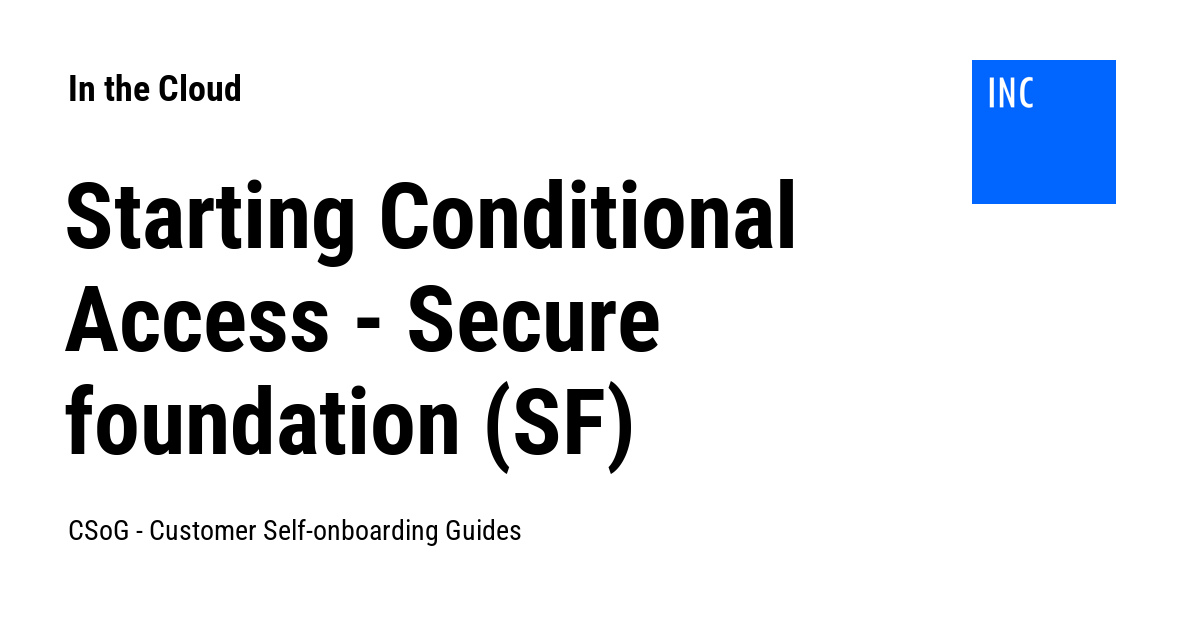
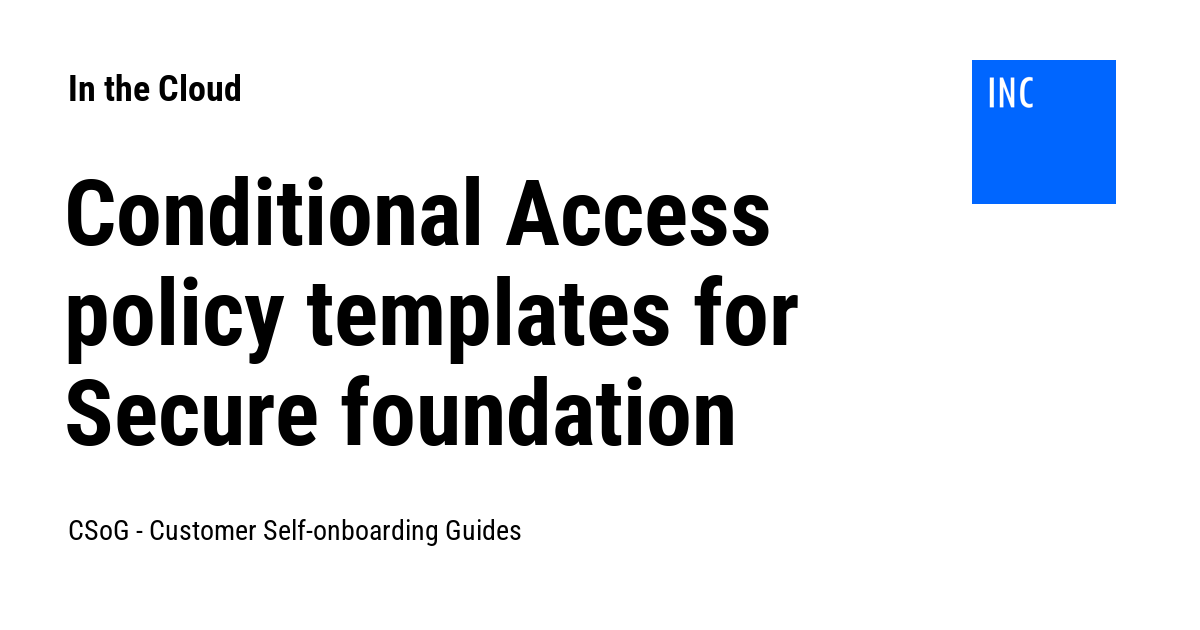
Deployed a15a251 with MkDocs version: 1.6.1

Changed region(s): [[0.0308, 0.4222, 0.6783, 0.754], [0.0308, 0.2714, 0.6783, 0.4222]]

diff --git a/entra/casf/index.html b/entra/casf/index.html
@@ -24,7 +24,7 @@
     
     
       
-        <title>Starting Conditional Access - Secure foundation (SF) - In the Cloud</title>
+        <title>Conditional Access policy templates for Secure foundation - In the Cloud</title>
       
     
     
@@ -61,7 +61,7 @@
       
         <meta  property="og:type"  content="website" >
       
-        <meta  property="og:title"  content="Starting Conditional Access - Secure foundation (SF) - In the Cloud" >
+        <meta  property="og:title"  content="Conditional Access policy templates for Secure foundation - In the Cloud" >
       
         <meta  property="og:description"  content="CSoG - Customer Self-onboarding Guides" >
       
@@ -77,7 +77,7 @@
       
         <meta  name="twitter:card"  content="summary_large_image" >
       
-        <meta  name="twitter:title"  content="Starting Conditional Access - Secure foundation (SF) - In the Cloud" >
+        <meta  name="twitter:title"  content="Conditional Access policy templates for Secure foundation - In the Cloud" >
       
         <meta  name="twitter:description"  content="CSoG - Customer Self-onboarding Guides" >
       
@@ -102,7 +102,7 @@
     <div data-md-component="skip">
       
         
-        <a href="#starting-conditional-access-secure-foundation-sf" class="md-skip">
+        <a href="#conditional-access-policy-templates-for-secure-foundation" class="md-skip">
           Skip to content
         </a>
       
@@ -135,7 +135,7 @@
         <div class="md-header__topic" data-md-component="header-topic">
           <span class="md-ellipsis">
             
-              Starting Conditional Access - Secure foundation (SF)
+              Conditional Access policy templates for Secure foundation
             
           </span>
         </div>
@@ -1167,7 +1167,7 @@
                   
 
 
-<h1 id="starting-conditional-access-secure-foundation-sf">Starting Conditional Access - Secure foundation (SF)</h1>
+<h1 id="conditional-access-policy-templates-for-secure-foundation">Conditional Access policy templates for Secure foundation</h1>
 <p>Conditional Access templates จาก <a href="https://learn.microsoft.com/en-us/entra/identity/conditional-access/concept-conditional-access-policy-common?tabs=secure-foundation">Conditional Access policy templates</a> ช่วยให้เราสามารถสร้าง policy ตามคำแนะนำจาก Microsoft ได้โดยง่าย</p>
 <p>Templates มีหลายหมวด ในคู่มือนี้จะทำหมวด Secure foundation ซึ่งเป็น Conditional Access พื้นฐานที่ทุกองค์กรควรทำนะครับ</p>
 <h2 id="prerequisites">Prerequisites</h2>

diff --git a/entra/hbj/index.html b/entra/hbj/index.html
@@ -22,7 +22,7 @@
     
     
       
-        <title>Starting Entra Hybrid Join - Targeted deployment - In the Cloud</title>
+        <title>Microsoft Entra hybrid join targeted deployment - In the Cloud</title>
       
     
     
@@ -59,7 +59,7 @@
       
         <meta  property="og:type"  content="website" >
       
-        <meta  property="og:title"  content="Starting Entra Hybrid Join - Targeted deployment - In the Cloud" >
+        <meta  property="og:title"  content="Microsoft Entra hybrid join targeted deployment - In the Cloud" >
       
         <meta  property="og:description"  content="CSoG - Customer Self-onboarding Guides" >
       
@@ -75,7 +75,7 @@
       
         <meta  name="twitter:card"  content="summary_large_image" >
       
-        <meta  name="twitter:title"  content="Starting Entra Hybrid Join - Targeted deployment - In the Cloud" >
+        <meta  name="twitter:title"  content="Microsoft Entra hybrid join targeted deployment - In the Cloud" >
       
         <meta  name="twitter:description"  content="CSoG - Customer Self-onboarding Guides" >
       
@@ -100,7 +100,7 @@
     <div data-md-component="skip">
       
         
-        <a href="#starting-entra-hybrid-join-targeted-deployment" class="md-skip">
+        <a href="#microsoft-entra-hybrid-join-targeted-deployment" class="md-skip">
           Skip to content
         </a>
       
@@ -133,7 +133,7 @@
         <div class="md-header__topic" data-md-component="header-topic">
           <span class="md-ellipsis">
             
-              Starting Entra Hybrid Join - Targeted deployment
+              Microsoft Entra hybrid join targeted deployment
             
           </span>
         </div>
@@ -691,7 +691,7 @@
                   
 
 
-<h1 id="starting-entra-hybrid-join-targeted-deployment">Starting Entra hybrid join - targeted deployment</h1>
+<h1 id="microsoft-entra-hybrid-join-targeted-deployment">Microsoft Entra hybrid join targeted deployment</h1>
 <p>เครื่องคอมพิวเตอร์ที่ join on-premises AD DS อยู่ สามารถนำไป join Entra ID โดยอัตโนมัติได้ด้วยการทำ Entra Hybrid Join</p>
 <p>ในขณะที่เราสามารถรีรัน Entra Connect เพื่อสร้าง Service Connection Point (SCP) ลงใน AD DS ให้ทุกเครื่องที่ join domain มองเห็น ตาม <a href="https://learn.microsoft.com/en-us/entra/identity/devices/how-to-hybrid-join#managed-domains">Configure Microsoft Entra hybrid join</a></p>
 <p><img alt="alt text" src="../../assets/ehj/250213/image-36.png" /></p>
